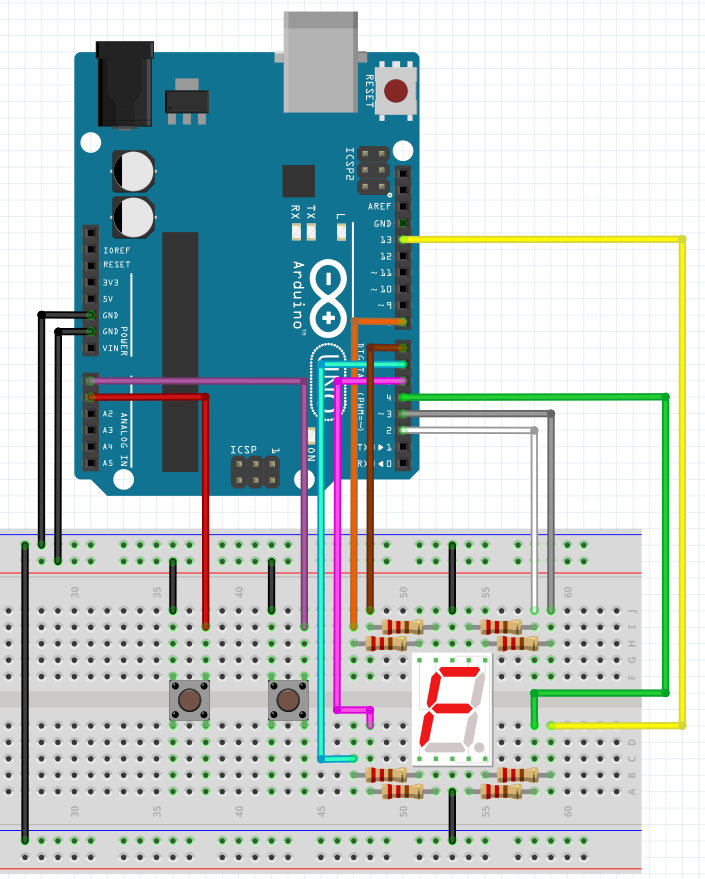
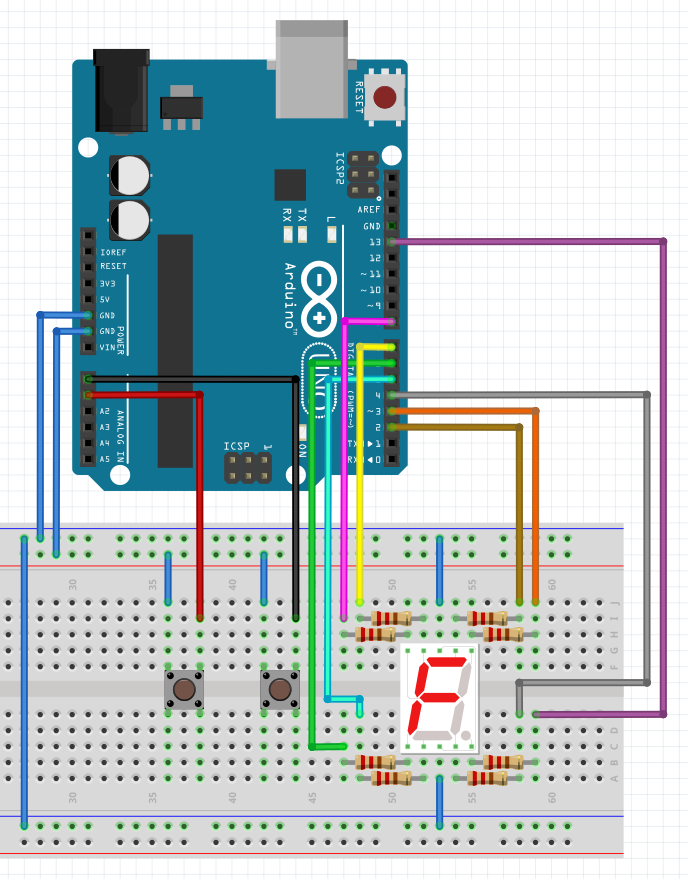
readme schematic

Changed region(s): [[0.0, 0.0, 0.9767, 1.0], [0.2137, 0.1843, 0.2442, 0.215]]

diff --git a/readme.md b/readme.md
@@ -1,6 +1,6 @@
 # buttonLED
 
-This is the first circuit/ code combo I've designed and built on my own.  I have been messing around with [arduinos](https://www.arduino.cc/) for a couple of days now and I wanted to see what I could do with one.  I picked up a starter kit that has an arduino uno and a bunch of random parts that you can use to build different sorts of projects.  Upon seeing the seven segment LED component I knew what my first project after general tinkering was going to be.  
+This is the first circuit/ code combo I've designed and built on my own.  I have been messing around with an [arduino](https://www.arduino.cc/) uno for a couple of days now and I wanted to see what I could do with one.  A while back, I picked up a starter kit that came with an uno along with a bunch of random parts that you can use to build different sorts of projects.  Upon seeing the seven segment LED component I knew what my first project after general tinkering was going to be.  
 
 <br>
 
@@ -9,10 +9,40 @@ I set out to build a circuit that upon pressing one button it will count 0 - 9 o
 <img src="media/buttonLED.gif" alt="Demo GIF">
 
 *the finished prototype in action*
+<hr>
 
 <br>
+
+## Background
+
+I have a decent amount of experience with 24v control circuits from my days as an HVAC tech.  The control wiring was always one of the most interesting aspects of the job to me.  There is something about setting up the logic of the circuitry that captured my imagination.  I particularlty enjoyed wiring all the pumps, limit switches, zone valves, end switches, gas valves, and thermostats that ran the boilers I used to service and install.  On full installs, where we would replace all the exsisting old components with new ones, I would love to just sit there on my stool with the spools of wire, a pair of wire strippers and all the wiring diagrams for the system. I would let my mind drift into the world of switches, pathways and loads that I would layout for the electricity to flow in order for me to automate the heating or cooling of my customers' home or building. 
+
+<img src="media/boiler.jpeg" style="width: 35%; max-width: 25em" alt="Boiler">
+
+*boiler that I and a colleague built for a customer*
+
+<hr>
+
+<br>
+
+On jobs that had more of a complicated setup we would typically use a [Taco Zone Valve Contoller](https://www.tacocomfort.com/product/zone-valve-controls/) to help simplify the circuits we would need to build.  While setting up the termostats and pumps I used to think about the logic inside of these controllers.  Now, as I mess with the arduino I am starting to understand how the logic actually may have worked.
+
+<img src="media/tacoContoller.png" style="width: 55%; max-width: 40em" alt="Taco Schematic">
+
+*taco diagram*
+<hr>
+
+<br>
+
 
 ## Wiring Diagram
 
 <img src="media/diagram.png"  alt="Wiring Diagram">
+
+<br>
+<br>
+
+## Schematic
+
+<img src="media/schematic.png" alt="Circuit Schematic">
 
